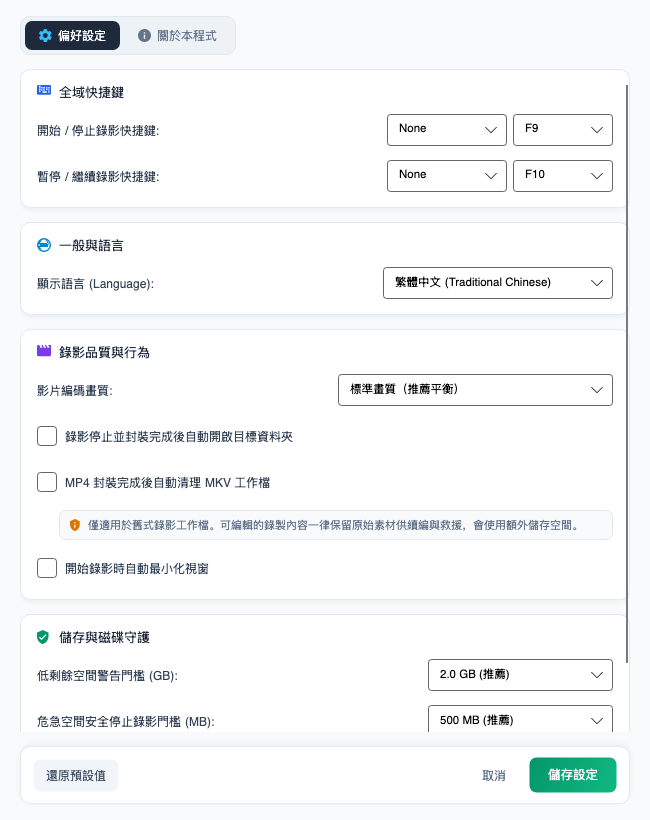
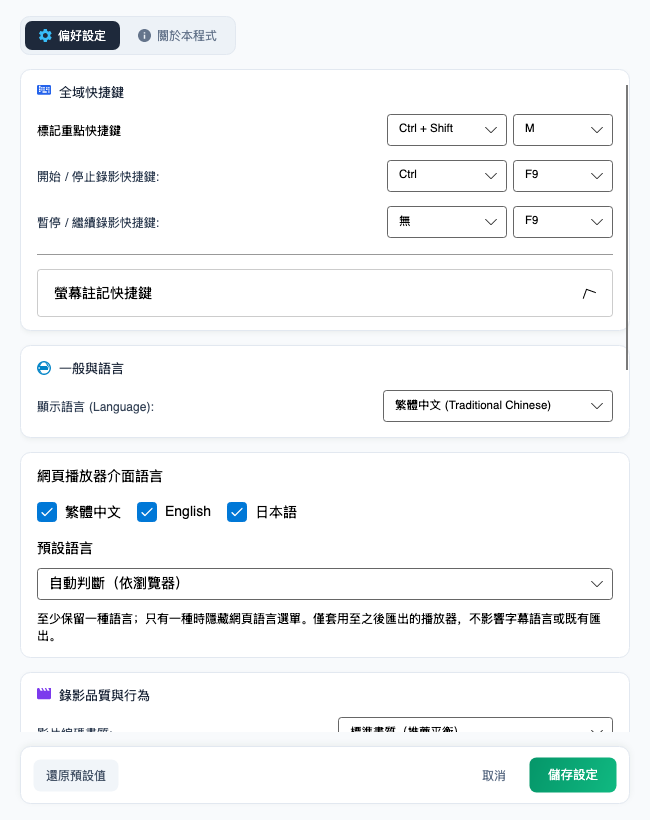
Prepare OpenCam 1.1.0 screen annotation release

diff --git a/website/src/site.css b/website/src/site.css
@@ -57,7 +57,7 @@ a { color: inherit; }
 .image-lightbox figure { margin: 0; min-width: 0; }
 .image-lightbox img { display: block; width: auto; height: auto; max-width: min(1440px, calc(100vw - 54px)); max-height: calc(100vh - 160px); max-height: calc(100dvh - 160px); margin: auto; object-fit: contain; border-radius: 7px; background: white; }
 .image-lightbox figcaption { max-width: 80ch; padding-top: 10px; margin: auto; color: #53665b; font-size: .8rem; line-height: 1.5; overflow-wrap: anywhere; }
-.hero-visual img { position: relative; display: block; width: 100%; border-radius: 16px; border: 1px solid #bfd7c6; box-shadow: 0 32px 70px #164d3038; }
+.hero-visual img { position: relative; display: block; width: 100%; height: auto; border-radius: 16px; border: 1px solid #bfd7c6; box-shadow: 0 32px 70px #164d3038; }
 .visual-caption { position: relative; display: block; margin-top: 15px; text-align: right; }
 .section { padding-block: 105px; }
 .section-intro { max-width: 720px; margin-bottom: 39px; }
@@ -74,7 +74,7 @@ a { color: inherit; }
 .guide-article img { display: block; max-width: 100%; height: auto; border: 1px solid #dce9df; border-radius: 10px; }
 .editor-highlights { display: flex; flex-wrap: wrap; gap: 12px 28px; padding: 0; margin: 24px 0 0; list-style: none; color: #365747; }
 .editor-highlights li::before { content: '✓'; margin-right: 9px; color: #107d5b; font-weight: 700; }
-.screenshot-card img { display: block; width: 100%; border: 1px solid #d7e2da; border-radius: 10px; }
+.screenshot-card img { display: block; width: 100%; height: auto; border: 1px solid #d7e2da; border-radius: 10px; }
 .screenshot-card figcaption a { color: #0a7652; text-underline-offset: 3px; }
 .screenshot-card figcaption { padding: 15px 5px 2px; color: #617669; font-size: .81rem; font-weight: 700; }
 .preview-note { margin: 18px 0 0; }

diff --git a/docs/USER_GUIDE.en-US.md b/docs/USER_GUIDE.en-US.md
@@ -1,6 +1,14 @@
 # OpenCam Complete User Guide (English)
 
-## v1.0.0 major update
+## Screen annotations
+
+During recording, open **Screen annotations** to mark the screen with a pen, lines, arrows, rectangles or ellipses. Choose a color and line width, then hold the left mouse button to draw. Hold and drag the eraser to remove whole marks it touches; undo, redo and clear are also available.
+
+By default, F10 toggles drawing without clearing marks, F11 shows or hides the toolbar, and Esc ends drawing and clears marks when the drawing surface or toolbar has focus. Customize these shortcuts in Settings → Global shortcuts → Screen annotation shortcuts. Existing shortcuts are preserved; check Settings for your actual bindings.
+
+You can drag or collapse the toolbar. The toolbar and annotations may be captured in the recording. Marks stay at screen positions when material scrolls and cannot be removed from the recorded video afterwards. Make a short test recording first.
+
+## v1.0.0 recording core
 
 Windows and macOS recording now uses OBS/libobs to address low achieved FPS, stutter and A/V synchronization in the previous pipeline. FFmpeg remains for audio trials, preview, editing and export, not recording fallback. Performance depends on hardware, resolution and load; first launch defaults to 20 FPS while existing preferences remain.
 
@@ -89,7 +97,7 @@ Higher FPS, Retina resolution and simultaneous video playback increase load. Beg
 
 OpenCam lets you record, edit, and resume recording. It writes MKV sources, retains them alongside a reopenable editing project, and exports MP4 when needed. Crash Recovery can attempt to preserve successfully written recordings; project recovery drafts protect interrupted unsaved edits.
 
-> This guide covers OpenCam v1.0.0: recording, editing, audio trials and MP4/GIF/Web export. See [what changed in this version](https://github.com/kaoshou/OpenCam/blob/master/docs/releases/v1.0.0.md).
+> This guide covers OpenCam v1.1.0: recording, editing, audio trials and MP4/GIF/Web export. See [what changed in this version](https://github.com/kaoshou/OpenCam/blob/master/docs/releases/v1.1.0.md).
 
 v0.3.3 replaces manual export with an **Export…** menu offering MP4 video or Web player. MP4 accepts a filename; Web player creates a unique folder containing index.html, media.mp4 and opencam-player.js. Chapters follow saved clips and show start times and durations in a scrollable index. Overlay controls provide seeking, volume, speed, wide-screen and fullscreen. Move the complete folder together and use an H.264/AAC-capable browser. See [the web export format](https://github.com/kaoshou/OpenCam/blob/master/docs/WEB_PLAYER_EXPORT.md).
 
@@ -116,7 +124,7 @@ See the [README](../README.md) for Windows download and portable-use instruction
 - Explicit Save commits the editing version. A recovery draft protects interrupted edits; it is not a saved version or an updated MP4. Switching/closing with unsaved changes offers Save, Discard or Cancel. Reopening a recoverable draft offers a restore decision.
 - Resolve unsaved changes when prompted before manual export. If the same content has a verified existing output, choose Open Existing, Export Again or Cancel. Export has progress and cancellation controls; cancellation/failure preserves source media.
 
-These illustrations show v0.3.5. See this guide for current features. Select an image to view full size.
+These illustrations show the v1.1.0 interface with demonstration data. Select an image to view full size.
 
 [![Recording home](images/preview_main_enus.png)](images/preview_main_enus.png)
 [![Preferences](images/preview_settings_enus.png)](images/preview_settings_enus.png)
@@ -129,14 +137,14 @@ These illustrations show v0.3.5. See this guide for current features. Select an 
 
 - Windows 10 or Windows 11, x64.
 - Installer and portable packages include .NET and media tools. The required Microsoft Visual C++ recording runtime is included app-locally on Windows. Install normally or fully extract the portable ZIP; no separate codec/runtime installation is needed. If package files are missing, re-download the complete package rather than replacing individual DLLs.
-- Download `OpenCam_v1.0.0_Windows_x64_Setup.exe` or `OpenCam_v1.0.0_Windows_x64_Portable.zip` from [Releases](https://github.com/kaoshou/OpenCam/releases). Filenames identify the version, Windows platform, and x64 architecture.
+- Download `OpenCam_v1.1.0_Windows_x64_Setup.exe` or `OpenCam_v1.1.0_Windows_x64_Portable.zip` from [Releases](https://github.com/kaoshou/OpenCam/releases). Filenames identify the version, Windows platform, and x64 architecture.
 - System audio uses Windows loopback capture. A microphone can be selected in OpenCam.
 
 ### macOS
 
 - macOS 13 Ventura or later.
 - The official build currently supports Apple Silicon (arm64). An Intel Mac (x64) build is not currently provided.
-- Download `OpenCam_v1.0.0_macOS_arm64.dmg` from [Releases](https://github.com/kaoshou/OpenCam/releases); arm64 identifies Apple Silicon.
+- Download `OpenCam_v1.1.0_macOS_arm64.dmg` from [Releases](https://github.com/kaoshou/OpenCam/releases); arm64 identifies Apple Silicon.
 - After first launch, open **System Settings → Privacy & Security** and allow OpenCam to use:
   - Screen & System Audio Recording
   - Microphone, when microphone recording is needed

diff --git a/docs/releases/v1.1.0.md b/docs/releases/v1.1.0.md
@@ -1,0 +1,21 @@
+# OpenCam v1.1.0
+
+## 螢幕註記
+
+錄影時可在畫面上用畫筆、直線、箭頭、方框或圓圈標示重點，調整顏色和粗細。橡皮擦可按住左鍵拖曳，移除碰到的整筆註記；也可復原、重做或清除全部。
+
+工具列可拖曳、收合或透過快捷鍵隱藏。畫筆、工具列及繪圖工具快捷鍵可在設定中調整；F10 預設切換畫筆，保留已有筆跡；繪圖畫面或工具列有焦點時，Esc 預設結束繪圖並清除註記。既有自訂快捷鍵會保留，請以設定畫面為準。
+
+註記與工具列可能出現在錄影中，註記直接錄入影片，無法事後移除；筆跡固定於螢幕位置，不跟隨教材捲動。可先短錄測試，再開始正式錄製。
+
+本版也改善主畫面教鞭樣式及大小的選擇介面，並修正工具列在跨螢幕移動及反覆隱藏時可能縮小的問題。
+
+## Screen annotations
+
+Annotate while recording using a pen, lines, arrows, rectangles or ellipses, with adjustable colors and line widths. Drag the eraser to remove whole marks, or undo, redo and clear them.
+
+Move, collapse or hide the toolbar and customize drawing shortcuts in Settings. By default, F10 toggles drawing while keeping marks; Esc ends drawing and clears marks when the drawing surface or toolbar has focus. Existing shortcut preferences are preserved.
+
+Annotations and the toolbar may appear in the recording. Marks are recorded into the video and cannot be removed later; they stay at screen positions when the material scrolls. Make a short test recording first.
+
+This release also improves the teaching pointer selector and addresses toolbar size changes after moving between displays and repeatedly hiding it.
